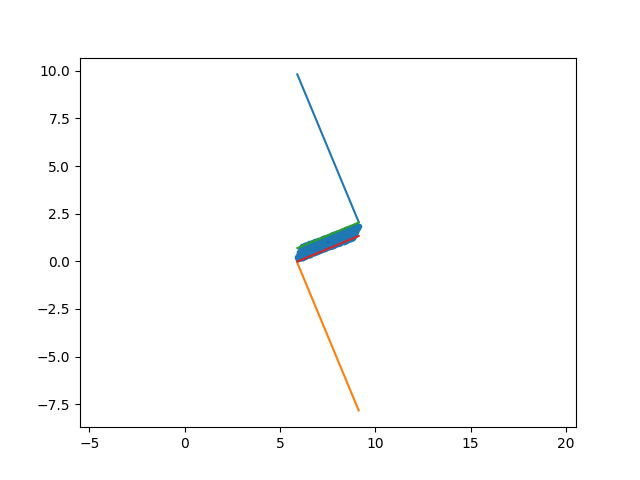
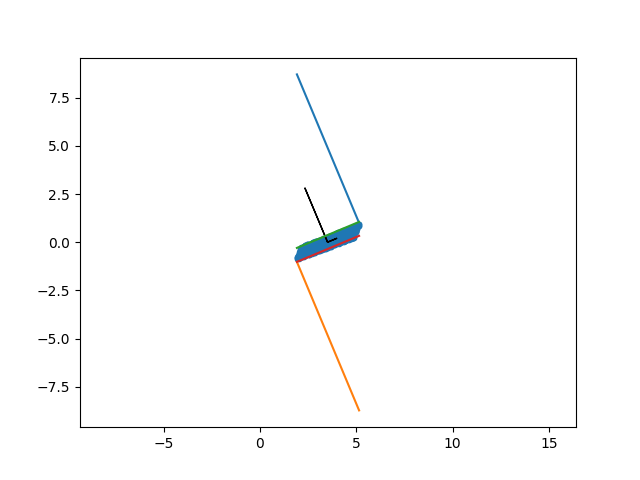
bug fix in using the new axis center

diff --git a/run.py b/run.py
@@ -20,7 +20,7 @@ def main():
     useTwoNormDilation = False
     useSdpForLipschitzCalculation = True
     lipschitzSdpSolverVerbose = False
-    finalHorizon = 1
+    finalHorizon = 3
     initialGD = False
     performMultiStepSingleHorizon = False
 
@@ -37,8 +37,8 @@ def main():
     # fileName = "randomNetwork.pth"
     # fileName = "randomNetwork2.pth"
     # fileName = "randomNetwork3.pth"
-    fileName = "trainedNetwork1.pth"
-    # fileName = "doubleIntegrator.pth"
+    # fileName = "trainedNetwork1.pth"
+    fileName = "doubleIntegrator.pth"
     # fileName = "RobotArmStateDict2-5-2.pth"
     # fileName = "Test3-5-3.pth"
     # fileName = "ACASXU.pth"
@@ -63,10 +63,10 @@ def main():
     outputDim = network.Linear[-1].weight.shape[0]
     network.to(device)
     # The intial HyperRectangule
-    lowerCoordinate = torch.Tensor([-1., -1.]).to(device)
-    upperCoordinate = torch.Tensor([1., 1.]).to(device)
-    # lowerCoordinate = torch.Tensor([1., 1.5]).to(device)
-    # upperCoordinate = torch.Tensor([2., 2.5]).to(device)
+    # lowerCoordinate = torch.Tensor([-1., -1.]).to(device)
+    # upperCoordinate = torch.Tensor([1., 1.]).to(device)
+    lowerCoordinate = torch.Tensor([1., 1.5]).to(device)
+    upperCoordinate = torch.Tensor([2., 2.5]).to(device)
 
     # lowerCoordinate = torch.Tensor([torch.pi / 3, torch.pi / 3, torch.pi / 3]).to(device)
     # upperCoordinate = torch.Tensor([2 * torch.pi / 3, 2 * torch.pi / 3, 2 * torch.pi / 3]).to(device)
@@ -109,11 +109,14 @@ def main():
 
         data_mean = pca.mean_
         data_comp = pca.components_
+        data_sd = np.sqrt(pca.explained_variance_)
+
+        # print(np.linalg.norm(data_comp, 2, 1))
 
         plt.figure()
         plt.scatter(imageData[:, 0], imageData[:, 1], marker='.')
-        plt.arrow(data_mean[0], data_mean[1], data_comp[0, 0] / 10000, data_comp[0, 1] / 10000, width=0.000003)
-        plt.arrow(data_mean[0], data_mean[1], data_comp[1, 0] / 10000, data_comp[1, 1] / 10000, width=0.000003)
+        plt.arrow(data_mean[0], data_mean[1], data_comp[0, 0] / data_sd[0] / 2, data_comp[0, 1] / data_sd[0] / 2, width=0.001)
+        plt.arrow(data_mean[0], data_mean[1], data_comp[1, 0] / data_sd[1] / 2, data_comp[1, 1] / data_sd[1] / 2, width=0.001)
         
         pcaDirections = []
         for direction in data_comp:
@@ -149,18 +152,13 @@ def main():
             print(' ')
             print('Best lower/upper bounds are:', lowerBound, '->' ,upperBound)
 
-        rotation = nn.Linear(dim, dim)
-        rotation.weight = torch.nn.parameter.Parameter(torch.linalg.inv(torch.from_numpy(data_comp).float().to(device)))
-        rotation.bias = torch.nn.parameter.Parameter(torch.from_numpy(data_mean).float().to(device))
-        network.rotation = rotation
-
-
 
         centers = []
         for i, component in enumerate(data_comp):
             u = -calculatedLowerBoundsforpcaDirections[2 * i]
             l = calculatedLowerBoundsforpcaDirections[2 * i + 1]
-            center = (u + l) / 2
+            # center = (u + l) / 2
+            center = component @ data_mean
             centers.append(center)
             upperCoordinate[i] = u - center
             lowerCoordinate[i] = l - center
@@ -177,7 +175,12 @@ def main():
 
         plt.axis("equal")
         plt.savefig("reachabilityPics/" + fileName + "Iteration" + str(iteration) + ".png")
-        # plt.show()
+        plt.show()
+
+        rotation = nn.Linear(dim, dim)
+        rotation.weight = torch.nn.parameter.Parameter(torch.linalg.inv(torch.from_numpy(data_comp).float().to(device)))
+        rotation.bias = torch.nn.parameter.Parameter(torch.from_numpy(data_mean).float().to(device))
+        network.rotation = rotation
 
 
             
